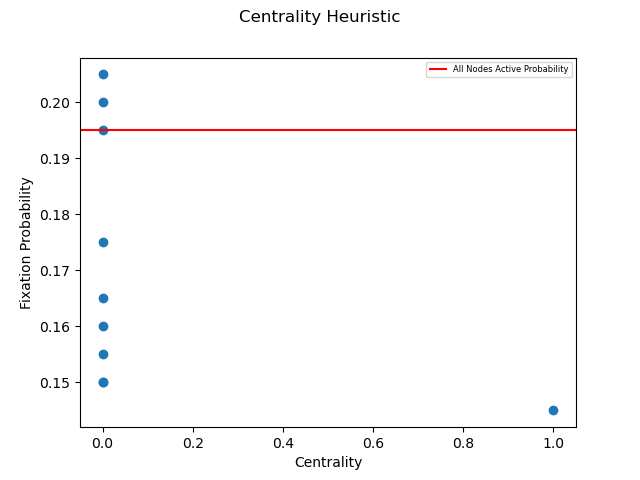
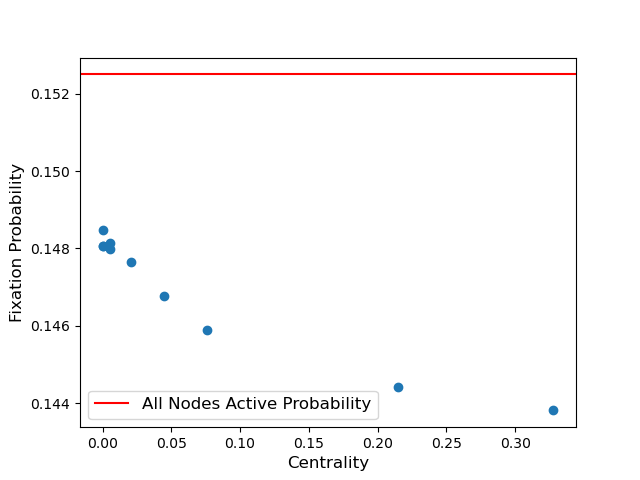
Plots

diff --git a/Pretty_Plot.py b/Pretty_Plot.py
@@ -6,7 +6,7 @@ def plot_heuristic_comparison_from_csv():
     #path_to_csv = 'C:\\Users\\joac1\\Downloads\\davis_southern_women_f_1.5_32_f_1.5.csv'
     #path_to_csv = 'C:\\Users\\joac1\\Documents\\Universitet\\6. Semester\\Bachelorprojekt\\Moran Process\\Experiments\\heuristic_expriments_on_larger_graphs\\Erdos Renyi\\with vertex cover\\erdos_renyi_p_0_1_1_50.csv'
     path_to_csv = 'C:\\Users\\joac1\\Documents\\Universitet\\6. Semester\\Bachelorprojekt\\Moran Process\\Experiments\\heuristic_expriments_on_larger_graphs\\barabasi_albert_graph\\barabasi_albert_n50_m3_f_1_50.csv'
-    path_to_csv = r'C:\Users\joac1\Documents\Universitet\6. Semester\Bachelorprojekt\Moran Process\Experiments\heuristic_expriments_on_larger_graphs\Davis Southern Woman\davis_southern_women_f_100_32.csv'
+    path_to_csv = r'C:\Users\joac1\Documents\Universitet\6. Semester\Bachelorprojekt\Moran Process\Experiments\heuristic_expriments_on_larger_graphs\Caveman\connected_caveman_f_100_30.csv'
     path_to_csv.replace('\\','\\\\')
 
     df = pd.read_csv(path_to_csv)
@@ -29,8 +29,8 @@ def plot_heuristic_comparison_from_csv():
     plt.xlabel('Active Nodes', fontsize = 12)
     plt.ylabel('Fixation Probability', fontsize = 12)
     #plt.title('Erdós Rényi', fontsize = 14)
-    plt.legend(loc=2, prop={'size': 12})
-    plt.savefig(r'C:\Users\joac1\Documents\Universitet\6. Semester\Bachelorprojekt\Moran Process\Experiments\heuristic_expriments_on_larger_graphs\Davis Southern Woman\Final\davis_southern_women_f_100_32'.replace('\\','\\\\') + ".png")
+    plt.legend(loc=2, prop={'size': 10})
+    plt.savefig(r'C:\Users\joac1\Documents\Universitet\6. Semester\Bachelorprojekt\Moran Process\Experiments\heuristic_expriments_on_larger_graphs\Caveman\Final\connected_caveman_f_100_30'.replace('\\','\\\\') + ".png")
 
     plt.show()
 
@@ -166,7 +166,7 @@ def plot_from_txt():
 
 
 def plot_circle_choosing_strategies_txt():
-    path_to_txt = 'C:\\Users\\joac1\\Documents\\Universitet\\6. Semester\\Bachelorprojekt\\Moran Process\\Circle_Graph_Experiments\\cycle_experiments5_g_size_10.txt'
+    path_to_txt = 'C:\\Users\\joac1\\Documents\\Universitet\\6. Semester\\Bachelorprojekt\\Moran Process\\Circle_Graph_Experiments\\cycle_experiments5_g_size_15.txt'
     df = pd.read_csv(path_to_txt, delimiter = "\t")
 
     active_list = df.loc[0]
@@ -185,14 +185,16 @@ def plot_circle_choosing_strategies_txt():
     plt.plot(active_list,evenly_distributed_list, label='Evenly Distributed', color='y', marker='v', markersize = 7, markevery=2)
     plt.plot(active_list,every_other_list, label='Every other',color='g', marker='^', markersize = 7, markevery=2)
 
-    plt.xlabel('Active Nodes', fontsize = 12)
-    plt.ylabel('Fixation Probability', fontsize = 12)
-    plt.legend(loc=2, prop={'size': 12})
+    plt.xlabel('Active Nodes', fontsize = 14)
+    plt.ylabel('Fixation Probability', fontsize = 14)
+    plt.legend(loc=2, prop={'size': 15})
+    plt.savefig('C:\\Users\\joac1\\Documents\\Universitet\\6. Semester\\Bachelorprojekt\\Moran Process\\Circle_Graph_Experiments\\Choosing Strategy Performance\\cycle_experiments5_g_size_15' + '.png')
     plt.show()
 
 
 def plot_circle_choosing_strategy_performance_txt():
-    path_to_txt = 'C:\\Users\\joac1\\Documents\\Universitet\\6. Semester\\Bachelorprojekt\\Moran Process\\Circle_Graph_Experiments\\cycle_fitness_experiment\\cycle_experiments_f_[0.1, 0.2, 0.5, 1, 1.5, 10, 100]_g_size_50_setup_continuous.txt'
+    path_to_txt = r'C:\Users\joac1\Documents\Universitet\6. Semester\Bachelorprojekt\Moran Process\Circle_Graph_Experiments\cycle_fitness_experiment_new3\cycle_experiments_f_[0.1, 0.2, 0.5, 1, 1.5, 10, 100]_g_size_50_setup_evenly_distributed.txt'
+    path_to_txt.replace('\\','\\\\')
     df = pd.read_csv(path_to_txt, header = None)
 
     active_list = list(range(0,51))
@@ -228,7 +230,7 @@ def plot_circle_choosing_strategy_performance_txt():
 
     plt.xlabel('Active Nodes', fontsize = 12)
     plt.ylabel('Fixation Probability', fontsize = 12)
-    plt.axis([0, 30, 0, 0.8])
+    #plt.axis([0, 50, 0, 0.8])
     plt.legend(loc=2, prop={'size': 12})
     plt.show()
 
@@ -276,7 +278,8 @@ def compare_individual_choosing_strategies():
     path_to_continuous = 'C:\\Users\\joac1\\Documents\\Universitet\\6. Semester\\Bachelorprojekt\\Moran Process\\Circle_Graph_Experiments\\cycle_fitness_experiment\\cycle_experiments_f_[0.1, 0.2, 0.5, 1, 1.5, 10, 100]_g_size_50_setup_continuous.txt'
     df_continuous = pd.read_csv(path_to_continuous, header = None)
 
-    path_to_dist = 'C:\\Users\\joac1\\Documents\\Universitet\\6. Semester\\Bachelorprojekt\\Moran Process\\Circle_Graph_Experiments\\cycle_fitness_experiment\\cycle_experiments_f_[0.1, 0.2, 0.5, 1, 1.5, 10, 100]_g_size_50_setup_evenly_distributed.txt'
+    path_to_dist = r'C:\Users\joac1\Documents\Universitet\6. Semester\Bachelorprojekt\Moran Process\Circle_Graph_Experiments\cycle_fitness_experiment_new3\cycle_experiments_f_[0.1, 0.2, 0.5, 1, 1.5, 10, 100]_g_size_50_setup_evenly_distributed.txt'
+    path_to_dist.replace('\\','\\\\')
     df_dist = pd.read_csv(path_to_dist, header = None)
 
     active_list = list(range(0,51))
@@ -406,9 +409,9 @@ def compare_individual_choosing_strategies():
     plt.plot(active_list,[x-y for x,y in zip(f_dist_100,f_con_100)], label='100', color='k', marker='x', markersize = 7, markevery=5)
 
     plt.xlabel('Active Nodes', fontsize = 12)
-    plt.ylabel('Fixation Probability', fontsize = 12)
+    plt.ylabel('Fixation Probability Difference', fontsize = 12)
     #plt.axis([0, 30, 0, 0.8])
-    plt.legend(loc=2, prop={'size': 12})
+    plt.legend(loc=1, prop={'size': 12})
     plt.show()
 
 
@@ -416,11 +419,11 @@ def compare_individual_choosing_strategies():
 
 if __name__ == "__main__":
 
-    plot_heuristic_comparison_from_csv()
+    #plot_heuristic_comparison_from_csv()
     #plot_from_txt()
     #plot_complete_data()
     #plot_star_data()
     #plot_circle_choosing_strategies_txt()
-    #plot_circle_choosing_strategy_performance_txt()
+    plot_circle_choosing_strategy_performance_txt()
     #compose_plots()
     #compare_individual_choosing_strategies()

diff --git a/Moran_Process.py b/Moran_Process.py
@@ -14,13 +14,13 @@ import os
 
 def plot_degree(degree_list, numeric_data,legend):
     fig, axs = plt.subplots()
-    fig.suptitle('Degree Heuristic')
+    #fig.suptitle('Degree Heuristic')
 
     axs.scatter(degree_list, numeric_data[1:])
     axs.axhline(y=round(numeric_data[0],5), color='r', linestyle='-', label=str(legend) + ' Active Probability')
-    axs.legend(loc=0, prop={'size': 6})
-    axs.set_ylabel("Fixation Probability")
-    axs.set_xlabel("Degree")
+    axs.legend(loc=0, prop={'size': 12})
+    axs.set_ylabel("Fixation Probability", fontsize = 12)
+    axs.set_xlabel("Degree", fontsize = 12)
     path = 'Preliminary_Experiments/degree_' + str(legend) + '_Active_Probability'
     plt.savefig(path + ".png")
 
@@ -29,15 +29,15 @@ def plot_degree(degree_list, numeric_data,legend):
 
 def plot_temperature(temp_list, numeric_data, legend):
     fig, axs = plt.subplots()
-    fig.suptitle('Temperature Heuristic')
+    #fig.suptitle('Temperature Heuristic')
 
     axs.scatter(temp_list, numeric_data[1:])
     axs.axhline(y=round(numeric_data[0],5), color='r', linestyle='-', label=str(legend) + ' Active Probability')
-    axs.legend(loc=0, prop={'size': 6})
-    axs.set_ylabel("Fixation Probability")
-    axs.set_xlabel("Temperature")
+    axs.legend(loc=0, prop={'size': 12})
+    axs.set_ylabel("Fixation Probability", fontsize = 12)
+    axs.set_xlabel("Temperature", fontsize = 12)
 
-    path = 'Preliminary_Experiments/degree_' + str(legend) + '_Active_Probability'
+    path = 'Preliminary_Experiments/temperature_' + str(legend) + '_Active_Probability'
     plt.savefig(path.replace('\\', '\\\\') + ".png")
 
     plt.show()
@@ -45,15 +45,15 @@ def plot_temperature(temp_list, numeric_data, legend):
 
 def plot_centrality(centrality_list, numeric_data, legend):
     fig, axs = plt.subplots()
-    fig.suptitle('Centrality Heuristic')
+    #fig.suptitle('Centrality Heuristic')
 
     axs.scatter(centrality_list, numeric_data[1:])
     axs.axhline(y=round(numeric_data[0],5), color='r', linestyle='-', label=str(legend) + ' Active Probability')
-    axs.legend(loc=0, prop={'size': 6})
-    axs.set_ylabel("Fixation Probability")
-    axs.set_xlabel("Centrality")
+    axs.legend(loc=0, prop={'size': 12})
+    axs.set_ylabel("Fixation Probability", fontsize = 12)
+    axs.set_xlabel("Centrality", fontsize = 12)
 
-    path = 'Preliminary_Experiments/degree_' + str(legend) + '_Active_Probability'
+    path = 'Preliminary_Experiments/centrality_' + str(legend) + '_Active_Probability'
     plt.savefig(path.replace('\\', '\\\\') + ".png")
 
     plt.show()
@@ -70,13 +70,15 @@ def make_one_passive_simulation(graph,fitness):
     for i in range(len(G.nodes())):
         G.nodes[i]['active'] = True
 
-    fixation_list, simulated_fixation_prob = simulate(min_iterations, G, fitness)
+    #fixation_list, simulated_fixation_prob = simulate(min_iterations, G, fitness)
+    simulated_fixation_prob = numeric_fixation_probability(G,fitness)
     simulation_data.append(simulated_fixation_prob)
 
     for i in range(len(G.nodes())):
         G.nodes[i]['active'] = False
 
-        fixation_list, simulated_fixation_prob = simulate(min_iterations, G, fitness)
+        #fixation_list, simulated_fixation_prob = simulate(min_iterations, G, fitness)
+        simulated_fixation_prob = numeric_fixation_probability(G,fitness)
         simulation_data.append(simulated_fixation_prob)
 
         G.nodes[i]['active'] = True
@@ -104,13 +106,15 @@ def make_one_active_simulation(graph,fitness):
     min_iterations=20000
 
     simulation_data = []
-    fixation_list, simulated_fixation_prob = simulate(min_iterations,G,fitness)
+    #fixation_list, simulated_fixation_prob = simulate(min_iterations,G,fitness)
+    simulated_fixation_prob = numeric_fixation_probability(G,fitness)
     simulation_data.append(simulated_fixation_prob)
 
     for i in range(len(G.nodes())):
         G.nodes[i]['active'] = True
 
-        fixation_list, simulated_fixation_prob = simulate(min_iterations,G,fitness)
+        #fixation_list, simulated_fixation_prob = simulate(min_iterations,G,fitness)
+        simulated_fixation_prob = numeric_fixation_probability(G,fitness)
         simulation_data.append(simulated_fixation_prob)
 
         G.nodes[i]['active'] = False
@@ -323,10 +327,6 @@ def plot_fixation_iteration(x, y, expected):
 
 # Computes the numerical fixation probability
 def numeric_fixation_probability(G, fitness):
-    if len(G.nodes) > 10:
-        print("Do you wanna fucking die?")
-        print("Smaller graph please....")
-        return 0
     number_of_nodes = len(G.nodes)
     node_list = range(0, number_of_nodes)
     all_pairs = []
@@ -507,19 +507,20 @@ def make_histogram(fitness,graph_size):
 
 if __name__ == "__main__":
     fitness = 0.1
-    graph_size = 4
+    graph_size = 9
 
     # G = Graphs.create_complete_graph(graph_size)
     # G = Graphs.create_star_graph(graph_size)
-    G = Graphs.create_karate_club_graph()
-
+    # G = Graphs.create_karate_club_graph()
+    G = nx.barabasi_albert_graph(10, 3, seed=None)
 
     #all_graphs_of_size_n = get_all_graphs_of_size_n("6c")
-    Graphs.initialize_nodes_as_resident(G)
+    G = Graphs.initialize_nodes_as_resident(G)
 
     #draw_nx_beautiful.draw_beautiful(G)
     Graphs.draw_graph(G)
     make_one_active_simulation(G,fitness)
+    #G = Graphs.initialize_nodes_as_resident(G)
     make_one_passive_simulation(G,fitness)
 
     """

diff --git a/Graphs.py b/Graphs.py
@@ -168,6 +168,8 @@ def add_weight_to_edges_markov_model(markov, graph, fitness):
 
 
 def initialize_nodes_as_resident(G,multiplier=1):
+    # Make graph bidirectional
+    #G = G.to_directed()
     # Initialize edge weights to be uniformly distributed
     for node1, node2, data in G.edges(data=True):
         data['weight'] = 1 / len(G.adj[node1])
@@ -179,8 +181,6 @@ def initialize_nodes_as_resident(G,multiplier=1):
         G.nodes[i]['multiplier'] = multiplier
         # Initialize Active node value
         G.nodes[i]['active'] = False
-    # Make graph bidirectional
-    G = G.to_directed()
     return G
 
 
